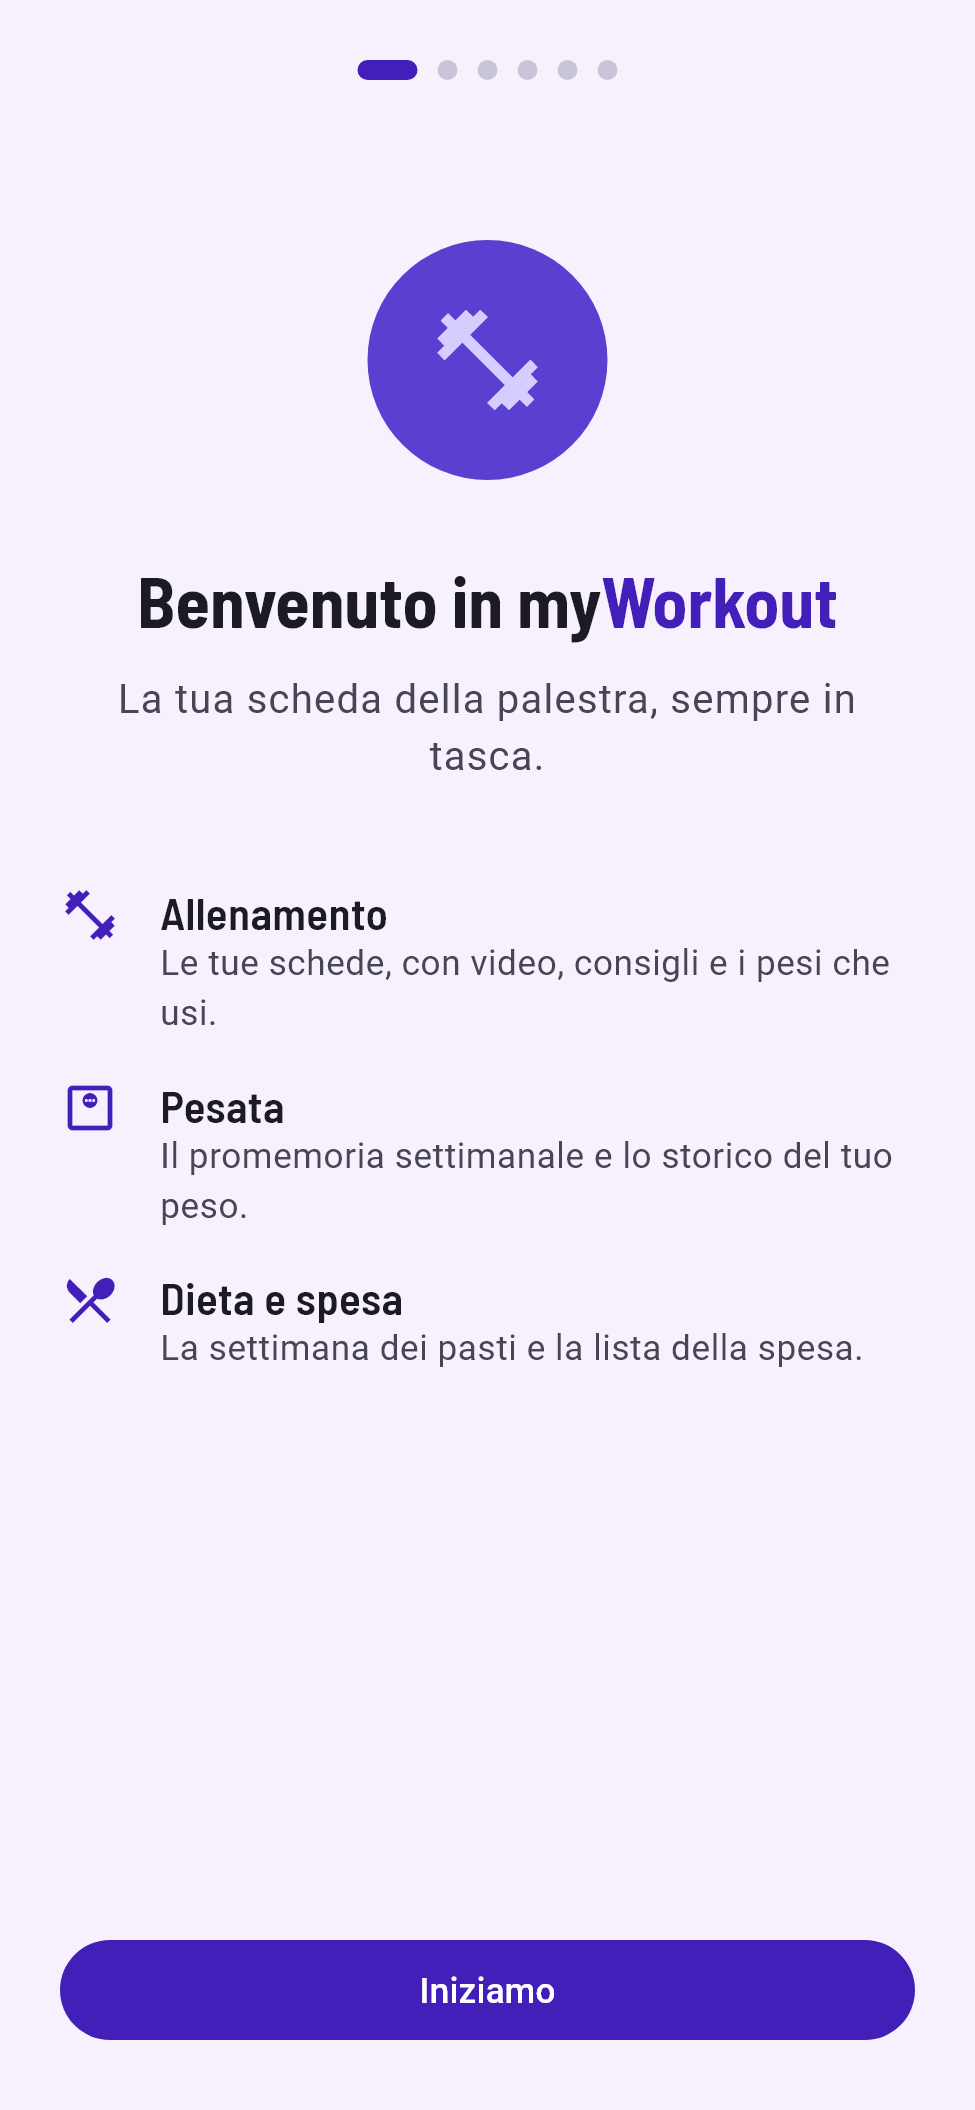
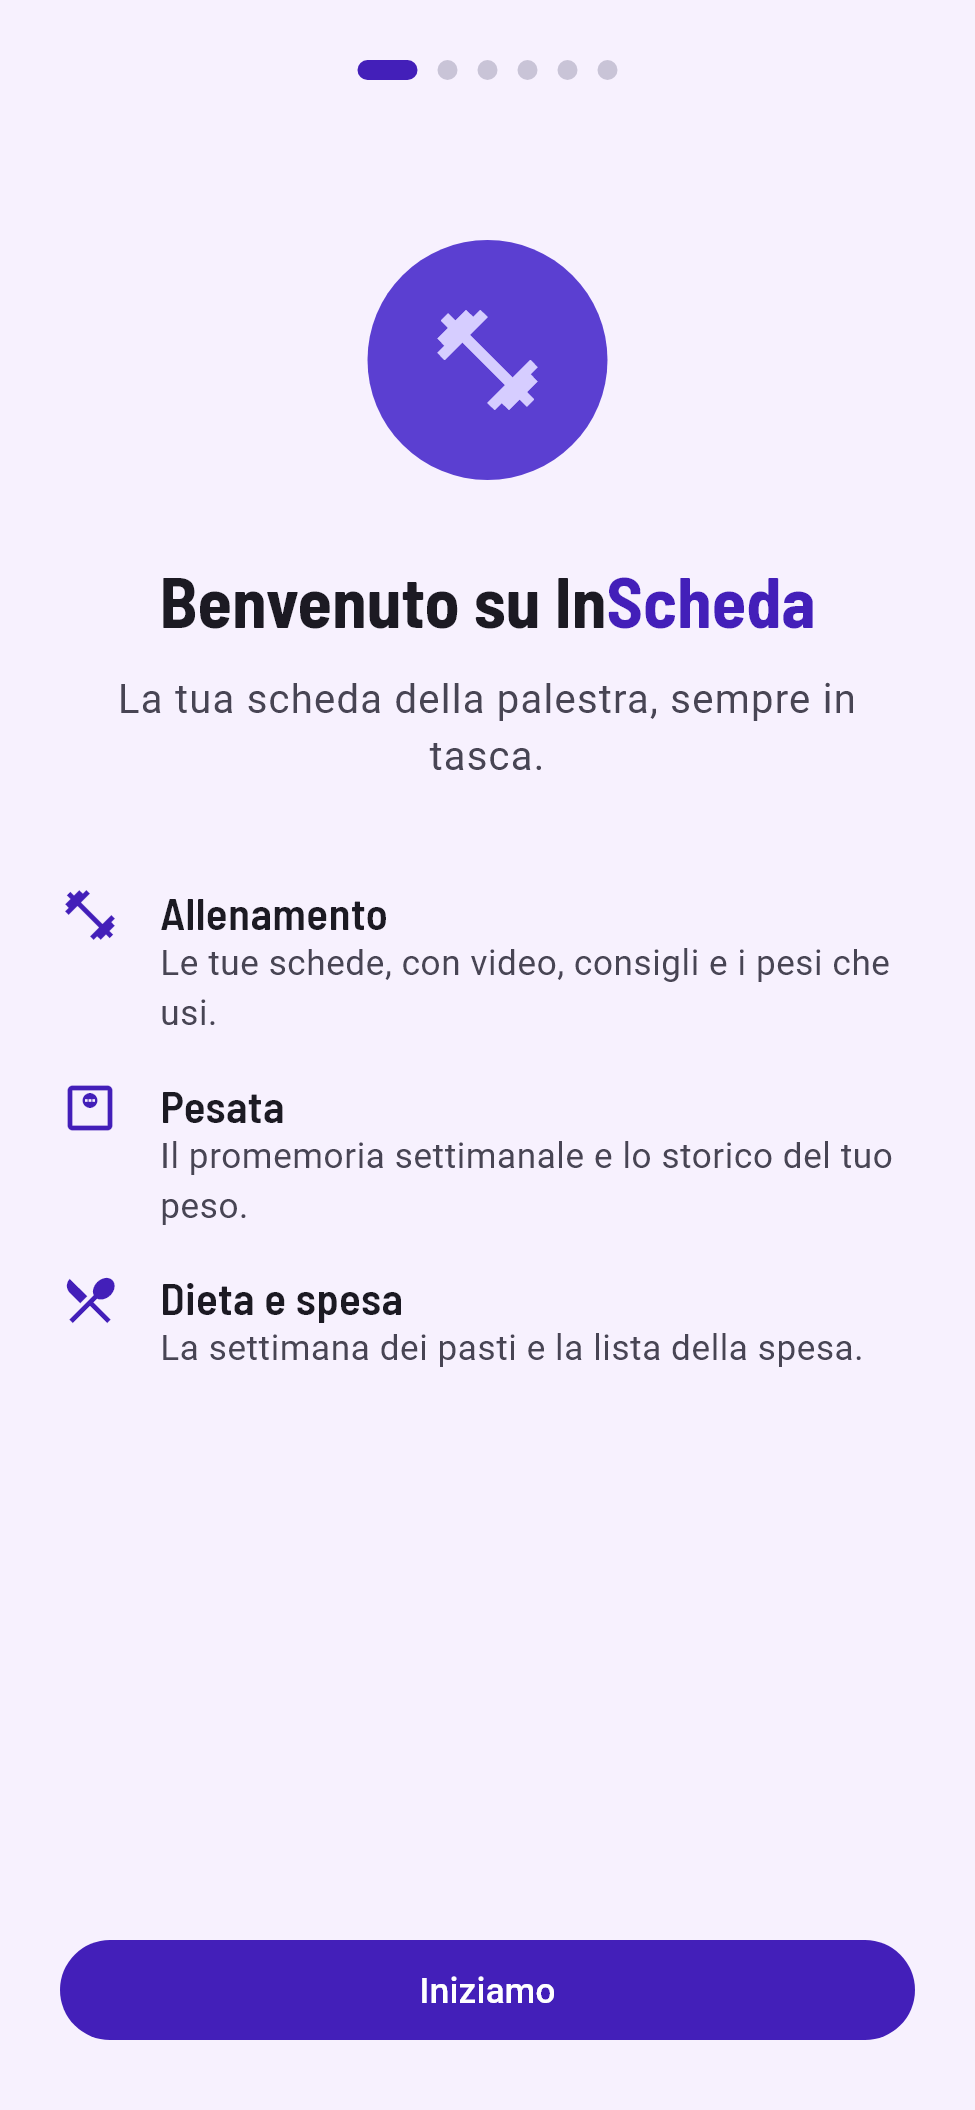
L'app si chiama InScheda, ingranaggio sul profilo
- Nome visibile InScheda ("stare in scheda" = seguire il programma):
  sotto l'icona (Android e iOS), logo nell'header, "Benvenuto su
  InScheda"; i nomi interni (my_workout, ID dell'app) restano
- Il cerchio del profilo nell'header ha un ingranaggio: si capisce che
  da lì si cambiano scheda, dieta e pesata (anche nella card finale
  dell'onboarding)
- Pulsante della pesata: "Modifica giorno pesata (Attualmente è ...)"
- README, note e screenshot aggiornati; repo rinominato in InScheda

Changed region(s): [[0.1231, 0.2773, 0.8615, 0.3081]]

diff --git a/lib/features/profile/profile_sheet.dart b/lib/features/profile/profile_sheet.dart
@@ -34,10 +34,14 @@ class ProfileSheet extends StatelessWidget {
     if (name != null) await profile.setName(name);
   }
 
-  Future<void> _editWeighInDay(BuildContext context, ProfileStore profile) async {
+  Future<void> _editWeighInDay(
+    BuildContext context,
+    ProfileStore profile,
+  ) async {
     final day = await showDialog<int>(
       context: context,
-      builder: (context) => _WeighInDayDialog(initialDay: profile.weighInWeekday),
+      builder: (context) =>
+          _WeighInDayDialog(initialDay: profile.weighInWeekday),
     );
     if (day != null) await profile.setWeighInWeekday(day);
   }
@@ -101,7 +105,9 @@ class ProfileSheet extends StatelessWidget {
             FilledButton.tonalIcon(
               onPressed: () => _editWeighInDay(context, profile),
               icon: const Icon(Icons.monitor_weight_outlined),
-              label: Text('Pesata: ogni ${formatWeekday(profile.weighInWeekday)}'),
+              label: Text(
+                'Modifica giorno pesata (Attualmente è ${formatWeekday(profile.weighInWeekday)})',
+              ),
             ),
           ],
         ),
@@ -129,10 +135,19 @@ class _WeighInDayDialogState extends State<_WeighInDayDialog> {
   Widget build(BuildContext context) {
     return AlertDialog(
       title: const Text('Giorno della pesata'),
-      content: WeighInDayPicker(value: _day, onChanged: (day) => setState(() => _day = day)),
+      content: WeighInDayPicker(
+        value: _day,
+        onChanged: (day) => setState(() => _day = day),
+      ),
       actions: [
-        TextButton(onPressed: () => Navigator.of(context).pop(), child: const Text('Annulla')),
-        FilledButton(onPressed: () => Navigator.of(context).pop(_day), child: const Text('Salva')),
+        TextButton(
+          onPressed: () => Navigator.of(context).pop(),
+          child: const Text('Annulla'),
+        ),
+        FilledButton(
+          onPressed: () => Navigator.of(context).pop(_day),
+          child: const Text('Salva'),
+        ),
       ],
     );
   }
@@ -170,7 +185,10 @@ class _NameDialogState extends State<_NameDialog> {
         onSubmitted: (_) => _save(),
       ),
       actions: [
-        TextButton(onPressed: () => Navigator.of(context).pop(), child: const Text('Annulla')),
+        TextButton(
+          onPressed: () => Navigator.of(context).pop(),
+          child: const Text('Annulla'),
+        ),
         FilledButton(onPressed: _save, child: const Text('Salva')),
       ],
     );

diff --git a/lib/features/profile/profile_avatar.dart b/lib/features/profile/profile_avatar.dart
@@ -5,8 +5,11 @@ import 'package:my_workout/data/profile_store.dart';
 
 /// Il cerchio del profilo: le iniziali bianche su un gradiente grigio.
 /// Senza nome mostra l'icona di una persona.
+///
+/// Con [settingsBadge] in basso a destra compare un piccolo ingranaggio:
+/// dice che toccandolo si aprono le impostazioni (scheda, dieta, pesata).
 class ProfileAvatar extends StatelessWidget {
-  const ProfileAvatar({super.key, this.size = 36, this.initials});
+  const ProfileAvatar({super.key, this.size = 36, this.initials, this.settingsBadge = false});
 
   /// Diametro del cerchio in punti.
   final double size;
@@ -15,8 +18,46 @@ class ProfileAvatar extends StatelessWidget {
   /// L'onboarding le passa a mano, mentre l'utente sta ancora scrivendo.
   final String? initials;
 
+  /// true = con l'ingranaggio (nell'header e dove spieghiamo dove toccare).
+  final bool settingsBadge;
+
   @override
   Widget build(BuildContext context) {
+    final circle = _circle(context);
+    if (!settingsBadge) return circle;
+
+    final colors = Theme.of(context).colorScheme;
+    final badge = size * 0.46;
+    // Stack: il badge sta sopra al cerchio, spostato in basso a destra.
+    // Clip.none lo lascia uscire un po' dal bordo, come i badge delle notifiche.
+    return SizedBox(
+      width: size,
+      height: size,
+      child: Stack(
+        clipBehavior: Clip.none,
+        children: [
+          circle,
+          Positioned(
+            right: -badge * 0.45,
+            bottom: -badge * 0.35,
+            child: Container(
+              width: badge,
+              height: badge,
+              decoration: BoxDecoration(
+                color: colors.primary,
+                shape: BoxShape.circle,
+                // Un bordo del colore dello sfondo lo stacca dal cerchio grigio.
+                border: Border.all(color: colors.surface, width: badge * 0.12),
+              ),
+              child: Icon(Icons.settings, size: badge * 0.62, color: colors.onPrimary),
+            ),
+          ),
+        ],
+      ),
+    );
+  }
+
+  Widget _circle(BuildContext context) {
     // `??`: se initials è null, chiediamo allo store del profilo.
     final text = initials ?? ProfileScope.of(context).initials;
 

diff --git a/lib/widgets/main_app_bar.dart b/lib/widgets/main_app_bar.dart
@@ -4,7 +4,7 @@ import 'package:my_workout/app_theme.dart';
 import 'package:my_workout/features/profile/profile_avatar.dart';
 import 'package:my_workout/features/profile/profile_sheet.dart';
 
-/// L'header di tutte le tab: "myWorkout" a sinistra, il cerchio del
+/// L'header di tutte le tab: il logo "InScheda" a sinistra, il cerchio del
 /// profilo a destra. [bottom] serve alle pagine con le schede (Dieta, Spesa).
 ///
 /// Uno Scaffold accetta come appBar solo un PreferredSizeWidget: un widget
@@ -24,21 +24,23 @@ class MainAppBar extends StatelessWidget implements PreferredSizeWidget {
 
     return AppBar(
       // Text.rich: un testo fatto di pezzi con stili diversi.
-      // Tutto in Russo One (il font del logo); "Workout" col colore principale.
+      // Tutto in Russo One (il font del logo); "Scheda" col colore principale.
+      // ("Stare in scheda" = seguire il programma: da qui il nome.)
       title: Text.rich(
         TextSpan(
           style: const TextStyle(fontFamily: AppTheme.logoFont, fontWeight: FontWeight.w400),
           children: [
-            const TextSpan(text: 'my'),
-            TextSpan(text: 'Workout', style: TextStyle(color: primary)),
+            const TextSpan(text: 'In'),
+            TextSpan(text: 'Scheda', style: TextStyle(color: primary)),
           ],
         ),
       ),
       actions: [
         IconButton(
-          tooltip: 'Profilo',
+          // L'ingranaggio sul cerchio fa capire che da qui si cambiano i dati.
+          tooltip: 'Profilo e impostazioni',
           onPressed: () => showProfileSheet(context),
-          icon: const ProfileAvatar(),
+          icon: const ProfileAvatar(settingsBadge: true),
         ),
         const SizedBox(width: 8),
       ],

diff --git a/test/onboarding_test.dart b/test/onboarding_test.dart
@@ -193,7 +193,7 @@ void main() {
       await profile.completeOnboarding(name: 'Mario Rossi');
       await tester.pumpAndSettle();
 
-      await tester.tap(find.byTooltip('Profilo'));
+      await tester.tap(find.byTooltip('Profilo e impostazioni'));
       await tester.pumpAndSettle();
       expect(find.text('Mario Rossi'), findsOneWidget);
 
@@ -215,9 +215,9 @@ void main() {
       await tester.pumpAndSettle();
       expect(profile.weighInWeekday, DateTime.friday);
 
-      await tester.tap(find.byTooltip('Profilo'));
+      await tester.tap(find.byTooltip('Profilo e impostazioni'));
       await tester.pumpAndSettle();
-      await tester.tap(find.text('Pesata: ogni venerdì'));
+      await tester.tap(find.text('Modifica giorno pesata (Attualmente è venerdì)'));
       await tester.pumpAndSettle();
       await tester.tap(find.widgetWithText(ChoiceChip, 'Lun'));
       await tester.pump();
@@ -225,7 +225,7 @@ void main() {
       await tester.pumpAndSettle();
 
       expect(profile.weighInWeekday, DateTime.monday);
-      expect(find.text('Pesata: ogni lunedì'), findsOneWidget);
+      expect(find.text('Modifica giorno pesata (Attualmente è lunedì)'), findsOneWidget);
     });
 
     testWidgets("finito l'onboarding le tab sono vuote: niente dati di altri", (tester) async {

diff --git a/lib/features/onboarding/onboarding_page.dart b/lib/features/onboarding/onboarding_page.dart
@@ -241,8 +241,8 @@ class _WelcomeStep extends StatelessWidget {
         const SizedBox(height: 32),
         Text.rich(
           TextSpan(
-            text: 'Benvenuto in my',
-            children: [TextSpan(text: 'Workout', style: TextStyle(color: colors.primary))],
+            text: 'Benvenuto su In',
+            children: [TextSpan(text: 'Scheda', style: TextStyle(color: colors.primary))],
           ),
           style: theme.textTheme.headlineMedium,
           textAlign: TextAlign.center,
@@ -461,12 +461,12 @@ class _ReadyStep extends StatelessWidget {
             padding: const EdgeInsets.all(16),
             child: Row(
               children: [
-                ProfileAvatar(size: 40, initials: initialsOf(name)),
+                ProfileAvatar(size: 40, initials: initialsOf(name), settingsBadge: true),
                 const SizedBox(width: 16),
                 Expanded(
                   child: Text(
                     'Scheda, dieta e giorno della pesata li cambi quando vuoi '
-                    'toccando il cerchio del profilo, in alto a destra.',
+                    "toccando il cerchio del profilo con l'ingranaggio, in alto a destra.",
                     style: theme.textTheme.bodyMedium,
                   ),
                 ),

diff --git a/test/widget_test.dart b/test/widget_test.dart
@@ -121,11 +121,11 @@ void main() {
   testWidgets("L'header ha il nome dell'app e il profilo mostra il nome", (tester) async {
     await tester.pumpWidget(MyWorkoutApp(weights: weights, bodyWeights: bodyWeights, shopping: shopping, profile: profile, userData: userData, assets: assets));
     await tester.pumpAndSettle();
-    expect(find.text('myWorkout'), findsOneWidget);
+    expect(find.text('InScheda'), findsOneWidget);
     expect(find.text('MR'), findsOneWidget);
 
     // Tocco il cerchio: si apre il pannello dal basso, col nome.
-    await tester.tap(find.byTooltip('Profilo'));
+    await tester.tap(find.byTooltip('Profilo e impostazioni'));
     await tester.pumpAndSettle();
     expect(find.text('Mario Rossi'), findsOneWidget);
     // Il download da GitHub non c'è più.

diff --git a/test/plan_editor_test.dart b/test/plan_editor_test.dart
@@ -125,7 +125,7 @@ void main() {
     ));
     await tester.pumpAndSettle();
 
-    await tester.tap(find.byTooltip('Profilo'));
+    await tester.tap(find.byTooltip('Profilo e impostazioni'));
     await tester.pumpAndSettle();
     await tester.tap(find.text('Modifica la scheda'));
     await tester.pumpAndSettle();
@@ -215,7 +215,7 @@ void main() {
     ));
     await tester.pumpAndSettle();
 
-    await tester.tap(find.byTooltip('Profilo'));
+    await tester.tap(find.byTooltip('Profilo e impostazioni'));
     await tester.pumpAndSettle();
     await tester.tap(find.text('Modifica la scheda'));
     await tester.pumpAndSettle();

diff --git a/lib/features/workout/workout_page.dart b/lib/features/workout/workout_page.dart
@@ -36,7 +36,7 @@ class _WorkoutPageState extends State<WorkoutPage> {
   @override
   Widget build(BuildContext context) {
     return Scaffold(
-      // L'header comune a tutte le tab: "myWorkout" e il cerchio del profilo.
+      // L'header comune a tutte le tab: "InScheda" e il cerchio del profilo.
       appBar: const MainAppBar(),
       // FutureBuilder ridisegna la pagina quando il Future cambia stato:
       // in attesa → completato con i dati, oppure → errore.

diff --git a/lib/app_theme.dart b/lib/app_theme.dart
@@ -15,7 +15,7 @@ abstract final class AppTheme {
   /// Il testo normale resta nel font di sistema (SF su iPhone, Roboto su Android).
   static const displayFont = 'Barlow';
 
-  /// Il font del logo "myWorkout" nell'header (Russo One): squadrato e
+  /// Il font del logo "InScheda" nell'header (Russo One): squadrato e
   /// sportivo. Solo lì, così il logo si distingue dai titoli delle pagine.
   static const logoFont = 'RussoOne';
 

diff --git a/lib/app.dart b/lib/app.dart
@@ -76,7 +76,7 @@ class MyWorkoutApp extends StatelessWidget {
 
   Widget _buildApp() {
     return MaterialApp(
-      title: 'myWorkout',
+      title: 'InScheda',
       debugShowCheckedModeBanner: false,
       // L'app è in italiano: anche i pezzi di Flutter (il calendario per
       // scegliere una data, i tooltip, "OK"/"Annulla") devono esserlo.

diff --git a/docs/CONTESTO_PROGETTO.md b/docs/CONTESTO_PROGETTO.md
@@ -1,4 +1,6 @@
-# myWorkout — contesto del progetto
+# InScheda — contesto del progetto
+
+> Il nome visibile dell'app è **InScheda** ("stare in scheda" = seguire il programma), scelto il 10/11/2026 al posto di myWorkout, troppo simile a Myworkout GO (Myworkout AS) e ad altre app. Restano "myWorkout" i nomi interni: pacchetto Dart `my_workout`, classe `MyWorkoutApp`, ID `io.github.salvatorenapolano.myworkout` (non si cambia), repo e cartella `myWorkout_public`, la chiave di firma.
 
 App Flutter **pubblica e open source** (licenza MIT) per la palestra: scheda di allenamento, dieta settimanale, pesata settimanale (giorno a scelta) e lista della spesa. Nasce dalla versione personale (repo privato `myWorkout_private`). Ogni utente parte **senza dati**: al primo avvio crea la sua scheda (onboarding), la dieta la scrive dalla tab Dieta; nell'app c'è solo la libreria esercizi. Distribuzione: APK su GitHub Releases, poi Google Play (niente App Store: niente Apple Developer Program).
 È anche un progetto **per imparare Flutter**: procediamo step by step.
@@ -8,7 +10,7 @@ App Flutter **pubblica e open source** (licenza MIT) per la palestra: scheda di 
 - **Lingua**: rispondi in italiano. Spiega i concetti Flutter/Dart nuovi che ogni modifica introduce; commenti nel codice in italiano.
 - **Ambiente**: Windows 11, VS Code + Android Studio, Flutter 3.47.9 (Dart 3.13). Provo l'app su un **emulatore Android** (la lancio io con F5). Questa versione si distribuisce solo per Android (vedi "Build e distribuzione").
 - **Verifica**: ogni modifica si chiude con `flutter analyze` (zero problemi) e `flutter test` (tutti verdi). Non installare/avviare l'app sul mio emulatore al posto mio.
-- **Codice su GitHub**: https://github.com/salvatorenapolano/myWorkout (branch `main`, **pubblico**: mai committare chiavi, keystore o dati personali). La versione personale è in `salvatorenapolano/myWorkout_private`.
+- **Codice su GitHub**: https://github.com/salvatorenapolano/InScheda (rinominato da `myWorkout` il 10/11/2026: i link vecchi reindirizzano; branch `main`, **pubblico**: mai committare chiavi, keystore o dati personali). La versione personale è in `salvatorenapolano/myWorkout_private`.
 
 ## Stato delle funzioni
 
@@ -27,7 +29,7 @@ App Flutter **pubblica e open source** (licenza MIT) per la palestra: scheda di 
 - Stile "lavagna della sala pesi": font **Barlow Semi Condensed** (in `assets/fonts/`, licenza OFL) per titoli e numeri, font di sistema per il testo; raggi 28 (banner) / 20 (card) / 12 (riquadri interni); pagine grigio chiaro con card bianche (in scuro: card più chiare dello sfondo). Tutto in `lib/app_theme.dart`.
 - Pacchetti: `flutter_svg` (anteprime), `shared_preferences` (pesi salvati), `youtube_player_iframe` (video), `path_provider` (cartella dei dati dell'utente), `flutter_localizations` (Flutter in italiano).
 - Nessun backend e niente download: la libreria (esercizi e immagini) è **negli asset**; scheda e dieta dell'utente sono JSON sul telefono (`UserDataStore`), pesi, pesate e spunte in `shared_preferences`.
-- Android: permesso `INTERNET` nel manifest (serve ai video). Nome app sotto l'icona: **myWorkout**. ID app (Android e iOS) `io.github.salvatorenapolano.myworkout`: definitivo, non cambiarlo dopo la pubblicazione su Google Play.
+- Android: permesso `INTERNET` nel manifest (serve ai video). Nome app sotto l'icona: **InScheda** (`android:label`, `CFBundleDisplayName`; logo nell'header "In" + "**Scheda**" nel colore principale, benvenuto "Benvenuto su InScheda"). ID app (Android e iOS) `io.github.salvatorenapolano.myworkout`: definitivo, non cambiarlo dopo la pubblicazione su Google Play.
 - Icona: dopo `dart run flutter_launcher_icons` **ripristinare** `ios/Runner.xcodeproj/project.pbxproj` (`git checkout -- …`): la v0.14.4 lo modifica per errore (mette `AppIcon` in `ASSETCATALOG_COMPILER_GENERATE_SWIFT_ASSET_SYMBOL_EXTENSIONS`).
 
 ## Struttura del codice
@@ -125,7 +127,7 @@ Nella scelta esercizi, **Crea un esercizio**: nome, gruppo muscolare (decide anc
 
 ## Com'è fatta l'interfaccia
 
-**Header** (tutte e 4 le tab, `MainAppBar`): "my**Workout**" (Workout nel colore principale) a sinistra, a destra il cerchio grigio sfumato con le **iniziali del nome** (icona persona se manca). Tocco sul cerchio → pannello dal basso: avatar e nome con matita per cambiarlo. Il pulsante **Scarica gli ultimi dati** è stato tolto (non serve nella versione pubblica). Le pagine non hanno più un titolo loro.
+**Header** (tutte e 4 le tab, `MainAppBar`): "my**Workout**" (Workout nel colore principale) a sinistra, a destra il cerchio grigio sfumato con le **iniziali del nome** (icona persona se manca) e un piccolo **ingranaggio** viola in basso a destra (`ProfileAvatar(settingsBadge: true)`, tooltip "Profilo e impostazioni"): fa capire che da lì si cambiano scheda, dieta e pesata. Lo stesso avatar con ingranaggio compare nella card finale dell'onboarding. Tocco sul cerchio → pannello dal basso: avatar e nome con matita per cambiarlo. Il pulsante **Scarica gli ultimi dati** è stato tolto (non serve nella versione pubblica). Le pagine non hanno più un titolo loro.
 
 **Allenamento**
 - In alto `TodayBanner`: "Oggi: Push" + muscoli del giorno (colorato, con "PUSH" in filigrana) / "Oggi riposo · prossimo allenamento domani: Pull" / "Scheda terminata". Senza orario (resta nel JSON).
@@ -170,7 +172,7 @@ File "myWorkout" con wireframe iniziali (pagine Wireframe/Componenti/Design, var
 
 ## Onboarding (versione pubblica)
 
-Primo avvio: **Benvenuto → Come ti chiami? → Quando ti alleni? → Le tue schede → Quando ti pesi? → Tutto pronto** (`lib/features/onboarding/`). Si avanza solo coi pulsanti (niente swipe); "Avanti" è spento senza nome, senza giorni, o se una scheda non ha esercizi. La scheda vive in un `PlanDraft` e si salva solo con "Entra" (prima `savePlan`, poi `completeOnboarding`). "Quando ti pesi?": un giorno solo (`WeighInDayPicker`, venerdì preselezionato). "Tutto pronto" riassume schede, giorni e pesata, e in una card con l'avatar spiega che **scheda, dieta e giorno della pesata si cambiano dal cerchio del profilo**. Nel pannello del profilo: Modifica la scheda, Modifica la dieta, "Pesata: ogni venerdì" (dialog coi 7 giorni).
+Primo avvio: **Benvenuto → Come ti chiami? → Quando ti alleni? → Le tue schede → Quando ti pesi? → Tutto pronto** (`lib/features/onboarding/`). Si avanza solo coi pulsanti (niente swipe); "Avanti" è spento senza nome, senza giorni, o se una scheda non ha esercizi. La scheda vive in un `PlanDraft` e si salva solo con "Entra" (prima `savePlan`, poi `completeOnboarding`). "Quando ti pesi?": un giorno solo (`WeighInDayPicker`, venerdì preselezionato). "Tutto pronto" riassume schede, giorni e pesata, e in una card con l'avatar spiega che **scheda, dieta e giorno della pesata si cambiano dal cerchio del profilo**. Nel pannello del profilo: Modifica la scheda, Modifica la dieta, "Modifica giorno pesata (Attualmente è venerdì)" (dialog coi 7 giorni).
 Piano deciso:
 1. ✅ Benvenuto + nome (iniziali nell'avatar, nome modificabile dal profilo). Immagine del profilo: in futuro, non prioritaria.
 2. ✅ Strato **dati utente** (`UserDataStore`): la scheda dell'utente è salvata in `<support>/user_data/assets/data/workout_plan.json`, stesso formato e percorso degli asset. `DataBundle(cartella, below)` si impila: utente → app (`userData.bundleOver(assets ?? rootBundle)` in app.dart, memoizzato; `MyWorkoutApp.assets` serve ai test per i dati di prova). La libreria esercizi e le immagini arrivano sempre dal piano di sotto. Tutti i modelli di scheda e dieta hanno `toJson()`. Da sapere: se una versione nuova dell'app toglie un esercizio usato nella scheda dell'utente, la tab Allenamento mostra l'errore.

diff --git a/README.md b/README.md
@@ -1,4 +1,6 @@
-# myWorkout
+# InScheda
+
+*Stare in scheda*: la scheda della palestra e la dieta che ti hanno dato, sempre in tasca.
 
 App Flutter per la palestra: scheda di allenamento, dieta settimanale e pesata settimanale, tutto in un'unica app, senza account e senza server.
 
